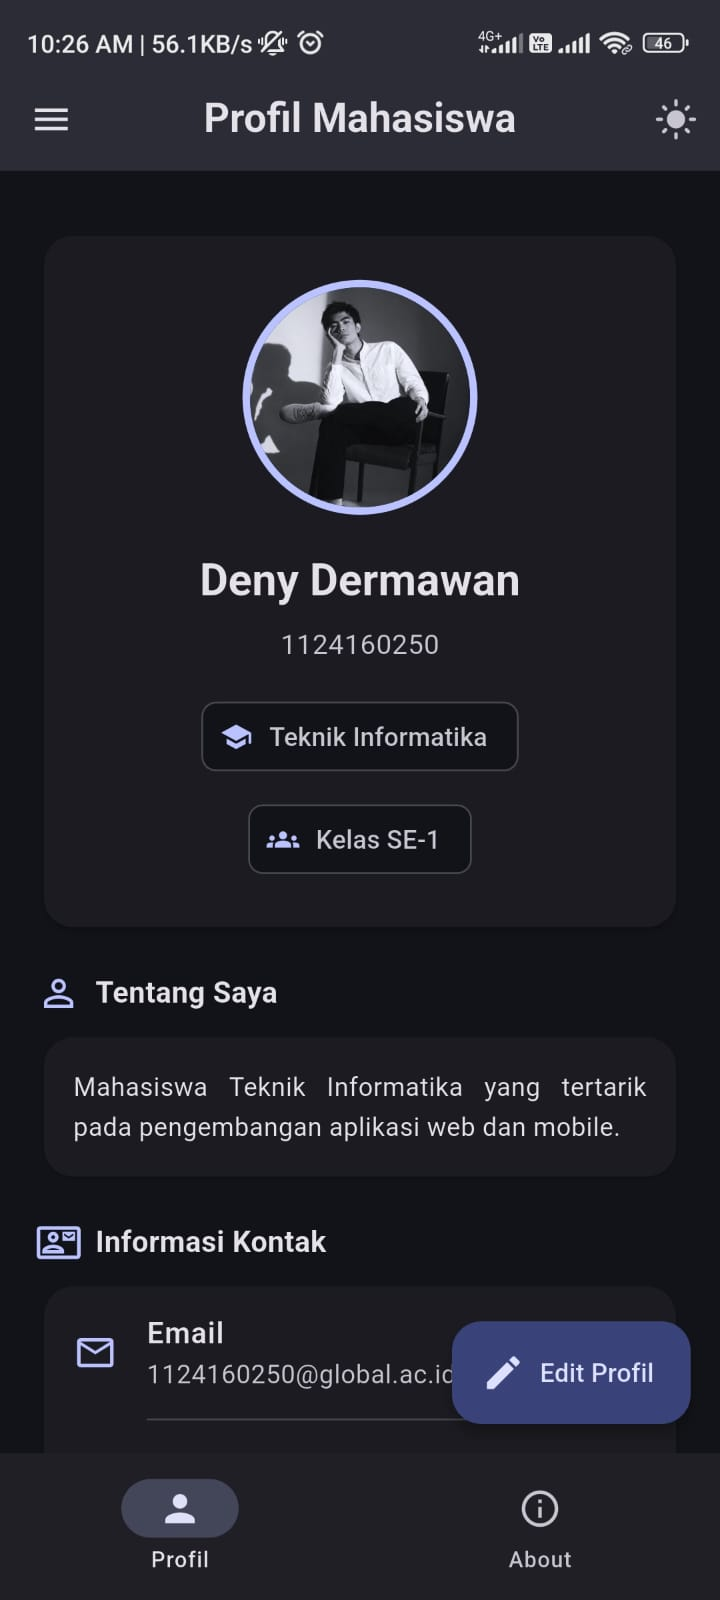
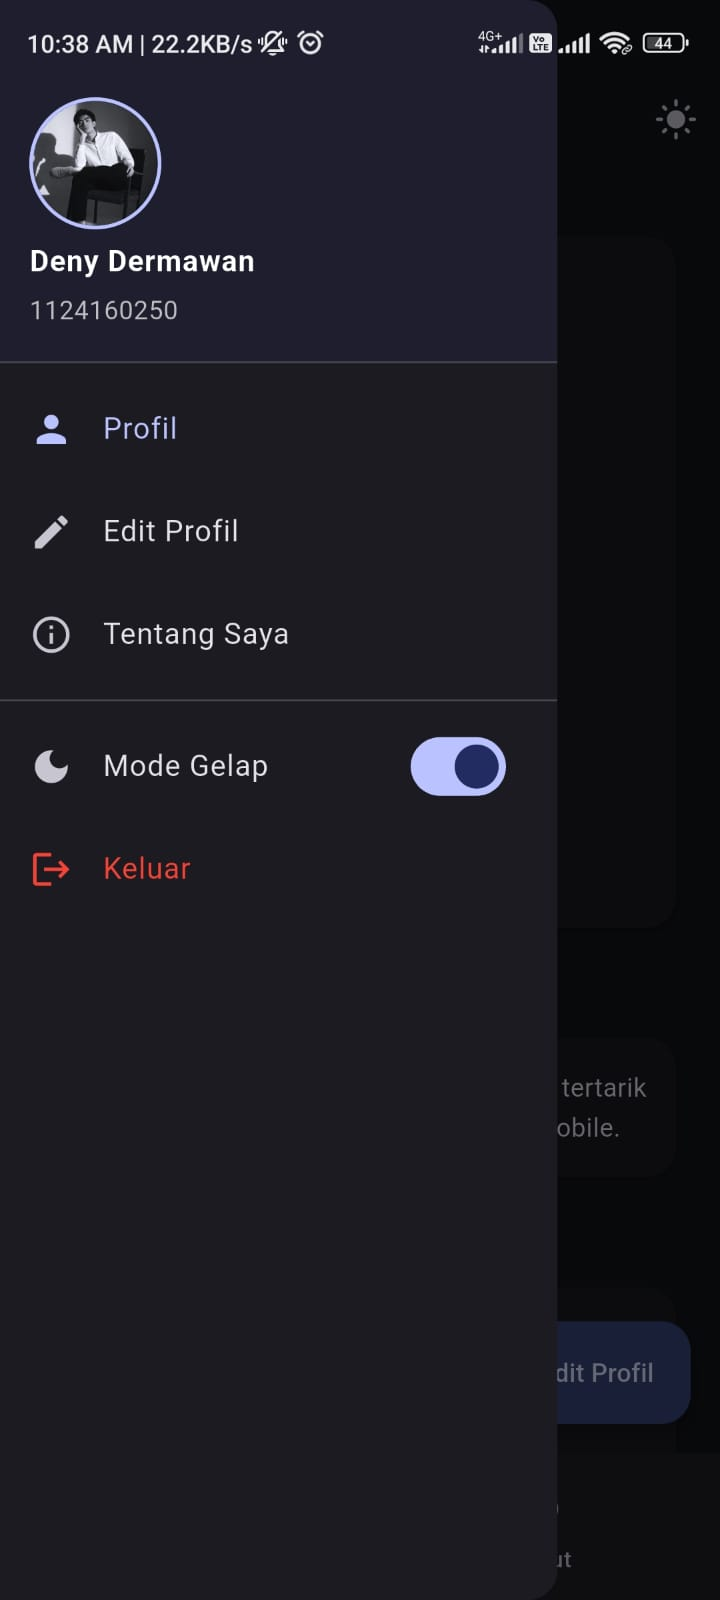
fix: update screenshot description in README.md and replace profile dark image

diff --git a/README.md b/README.md
@@ -80,7 +80,7 @@ File APK telah dibuat dengan perintah `flutter build apk --release` dan diunggah
 
 ## 📸 Screenshot Aplikasi
 
-| 1. Halaman Login | 2. Halaman Profil (Light) | 3. Halaman Profil (Dark) |
+| 1. Halaman Login | 2. Halaman Profil (Light) | 3. Fitur Drawer (Dark) |
 | :---: | :---: | :---: |
 | ![Screenshot Login](docs/screenshots/login.jpeg) | ![Screenshot Profil Light](docs/screenshots/profile_light.jpeg) | ![Screenshot Profil Dark](docs/screenshots/profile_dark.jpeg) |
 
